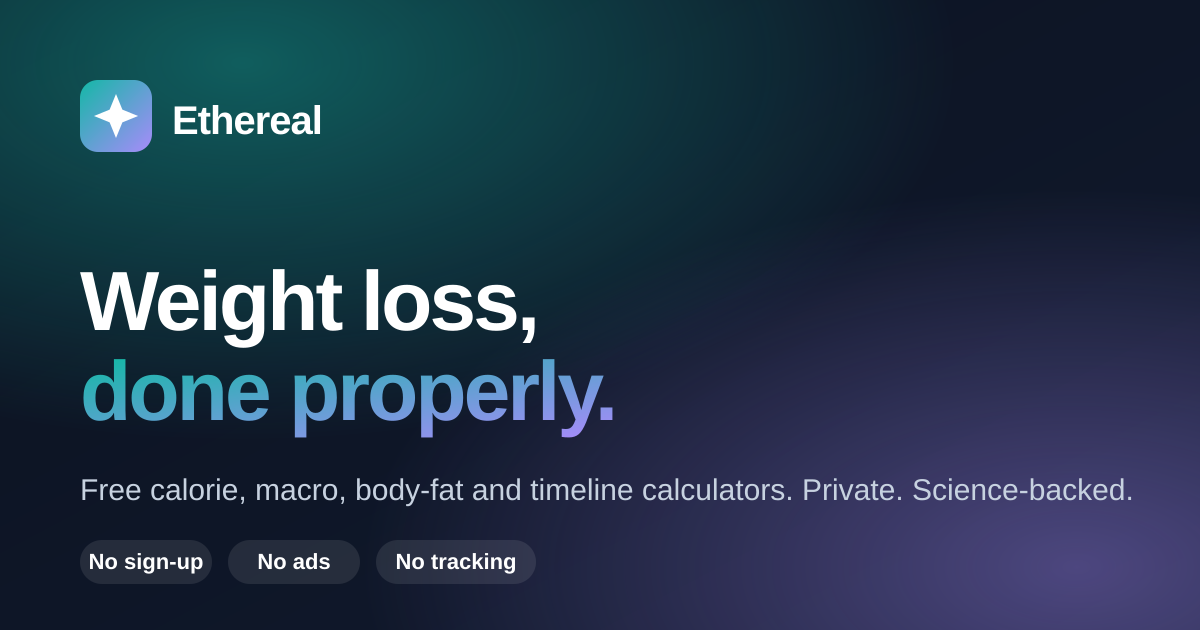
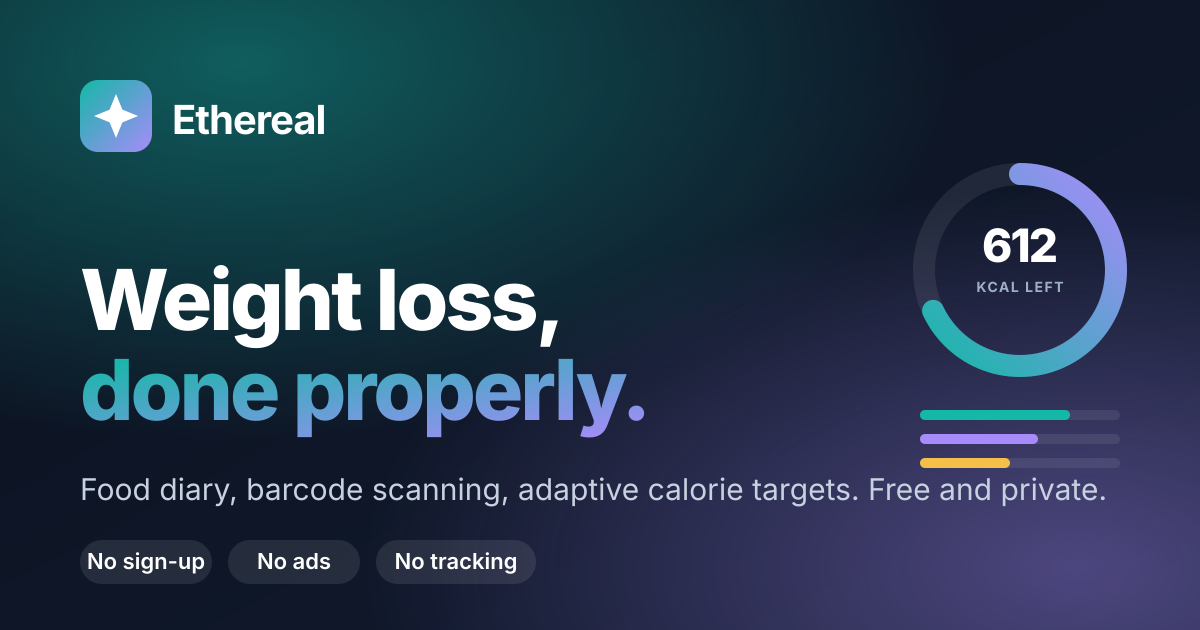
Lazy-load the food database and refresh the social card
- Food database loads on first use as two cached chunks; the Today
  page's upfront JavaScript drops from 32 KB to under 10 KB gzipped
- Open Graph card now shows the calorie ring and macro bars

Claude-Session: https://claude.ai/code/session_01GyztRj6Jw5HwqMksHqf4CU

diff --git a/src/lib/foods.ts b/src/lib/foods.ts
@@ -1,7 +1,5 @@
 /** Built-in food database: ~500 generic foods, searchable offline. */
 import type { Nutrients } from './calc/nutrition';
-import foodsA from '@/data/foods-a.json';
-import foodsB from '@/data/foods-b.json';
 
 export interface Food {
   id: string;
@@ -13,9 +11,31 @@ export interface Food {
   tags?: string[];
 }
 
-export const FOODS: Food[] = [...(foodsA as Food[]), ...(foodsB as Food[])];
-const BY_ID = new Map(FOODS.map((f) => [f.id, f]));
+let FOODS: Food[] = [];
+let BY_ID = new Map<string, Food>();
+let INDEX: Array<{ f: Food; text: string; nameTokens: string[] }> = [];
+let loading: Promise<Food[]> | null = null;
 
+/** Loads the database on first use (two JSON chunks, cached by the service worker after that). */
+export function loadFoods(): Promise<Food[]> {
+  if (FOODS.length) return Promise.resolve(FOODS);
+  loading ??= Promise.all([import('@/data/foods-a.json'), import('@/data/foods-b.json')]).then(
+    ([a, b]) => {
+      FOODS = [...(a.default as Food[]), ...(b.default as Food[])];
+      BY_ID = new Map(FOODS.map((f) => [f.id, f]));
+      INDEX = FOODS.map((f) => ({
+        f,
+        text: norm(`${f.name} ${f.category} ${(f.tags ?? []).join(' ')}`),
+        nameTokens: norm(f.name).split(' '),
+      }));
+      return FOODS;
+    },
+  );
+  return loading;
+}
+
+/** Synchronous accessors; empty until loadFoods() has resolved. */
+export const allFoods = (): Food[] => FOODS;
 export const foodById = (id: string): Food | undefined => BY_ID.get(id);
 
 const norm = (s: string) =>
@@ -25,12 +45,6 @@ const norm = (s: string) =>
     .replace(/[̀-ͯ]/g, '')
     .replace(/[^a-z0-9%]+/g, ' ')
     .trim();
-
-const INDEX = FOODS.map((f) => ({
-  f,
-  text: norm(`${f.name} ${f.category} ${(f.tags ?? []).join(' ')}`),
-  nameTokens: norm(f.name).split(' '),
-}));
 
 /** Token-prefix search with light ranking: exact name hit > name-start > token prefix > category/tag. */
 export function searchFoods(query: string, limit = 25): Food[] {
@@ -62,4 +76,4 @@ export function searchFoods(query: string, limit = 25): Food[] {
     .map((x) => x.f);
 }
 
-export const CATEGORIES: string[] = [...new Set(FOODS.map((f) => f.category))].sort();
+export const categories = (): string[] => [...new Set(FOODS.map((f) => f.category))].sort();

diff --git a/src/components/calculators/TodayScreen.tsx b/src/components/calculators/TodayScreen.tsx
@@ -26,7 +26,7 @@ import {
   saveCustomFood,
   type CustomFood,
 } from '@/lib/food-store';
-import { FOODS, foodById, searchFoods, type Food } from '@/lib/foods';
+import { allFoods, foodById, loadFoods, searchFoods, type Food } from '@/lib/foods';
 import { lookupBarcode, searchProducts, type OffProduct } from '@/lib/off';
 import { buildPlanSummary, planStore, todayIso } from '@/lib/plan';
 import { useProfile } from '@/lib/profile';
@@ -105,6 +105,10 @@ export default function TodayScreen() {
   const [date, setDate] = useState(today);
   const [adding, setAdding] = useState<Meal | null>(null);
   const [exAdding, setExAdding] = useState(false);
+  const [dbReady, setDbReady] = useState(false);
+  useEffect(() => {
+    loadFoods().then(() => setDbReady(true));
+  }, []);
 
   const summary = useMemo(() => {
     try {
@@ -145,8 +149,8 @@ export default function TodayScreen() {
     [diary.food, today],
   );
   const suggestions = useMemo(
-    () => (date === today ? suggestFoods(day.remaining, FOODS, prefs.diet, 4) : []),
-    [day.remaining, prefs.diet, date, today],
+    () => (date === today && dbReady ? suggestFoods(day.remaining, allFoods(), prefs.diet, 4) : []),
+    [day.remaining, prefs.diet, date, today, dbReady],
   );
 
   const remainingTone = day.remaining.kcal < 0 ? 'warn' : 'brand';

diff --git a/src/lib/__tests__/foods.test.ts b/src/lib/__tests__/foods.test.ts
@@ -1,10 +1,12 @@
-import { describe, expect, it } from 'vitest';
-import { FOODS, foodById, searchFoods } from '../foods';
+import { beforeAll, describe, expect, it } from 'vitest';
+import { allFoods, foodById, loadFoods, searchFoods } from '../foods';
+
+beforeAll(() => loadFoods());
 
 describe('food database search', () => {
   it('has unique ids and a useful size', () => {
-    expect(FOODS.length).toBeGreaterThan(200);
-    expect(new Set(FOODS.map((f) => f.id)).size).toBe(FOODS.length);
+    expect(allFoods().length).toBeGreaterThan(200);
+    expect(new Set(allFoods().map((f) => f.id)).size).toBe(allFoods().length);
   });
   it('ranks the obvious match first', () => {
     const r = searchFoods('chicken breast');
@@ -22,7 +24,7 @@ describe('food database search', () => {
     expect(searchFoods('zzqxv')).toEqual([]);
   });
   it('looks up by id', () => {
-    const first = FOODS[0]!;
+    const first = allFoods()[0]!;
     expect(foodById(first.id)).toBe(first);
     expect(foodById('nope')).toBeUndefined();
   });
